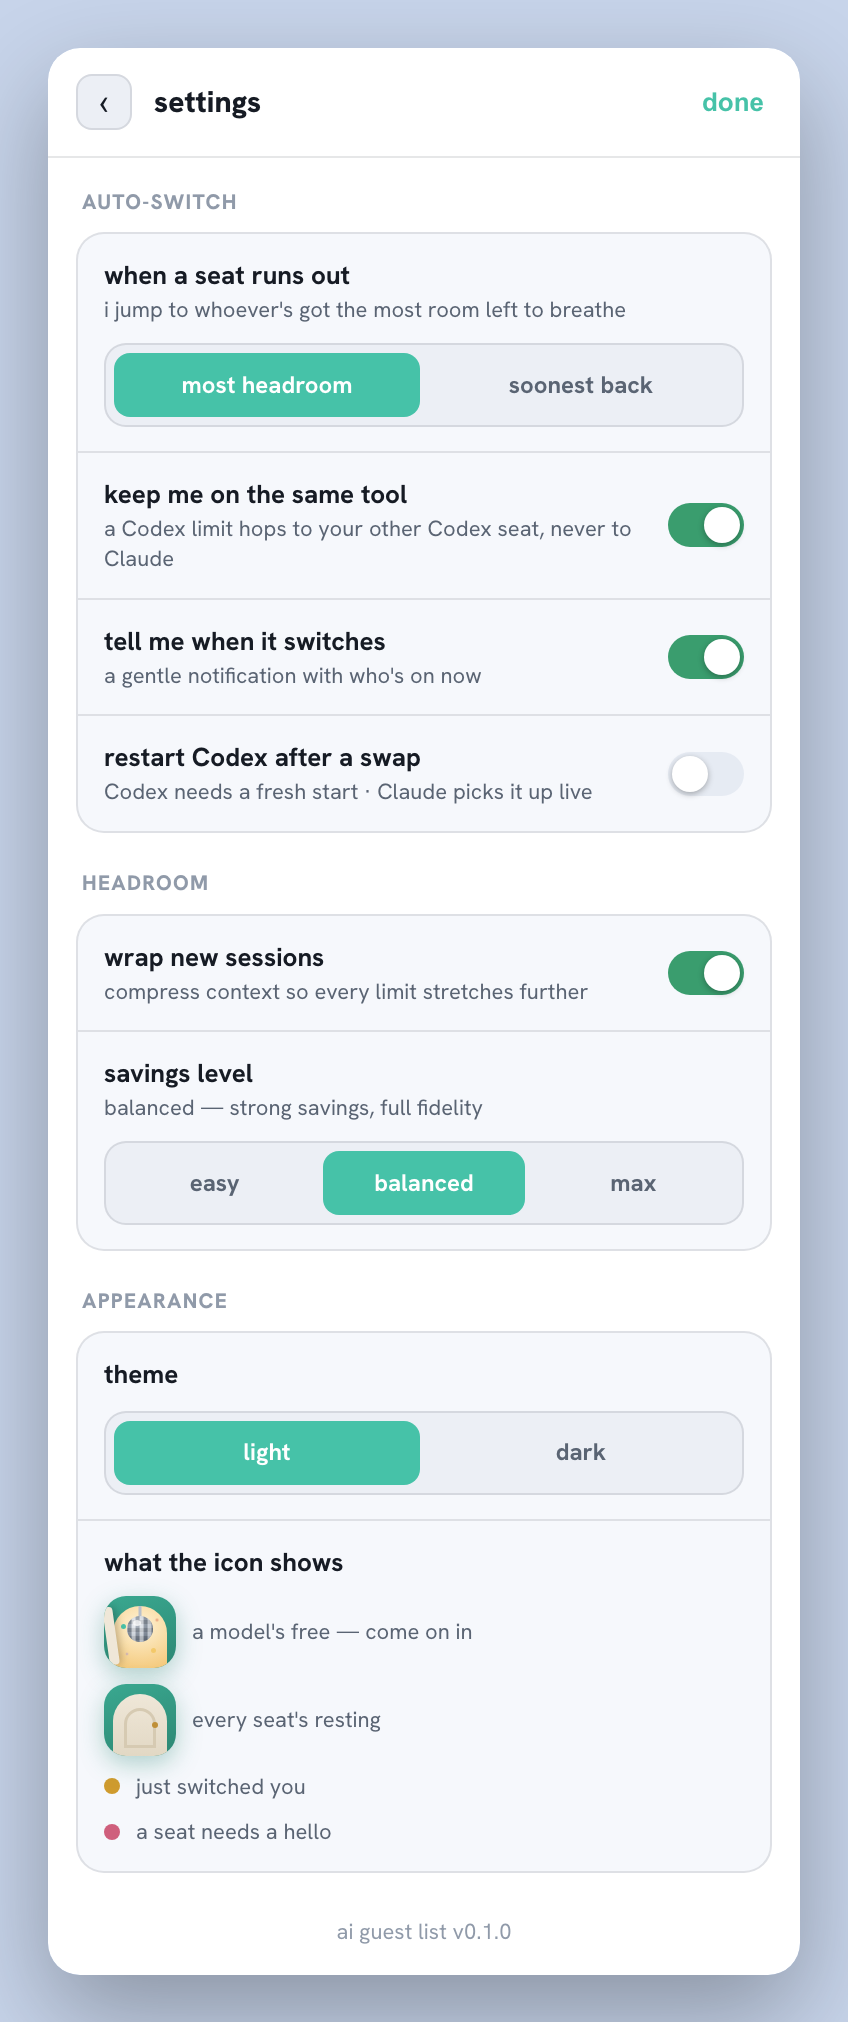
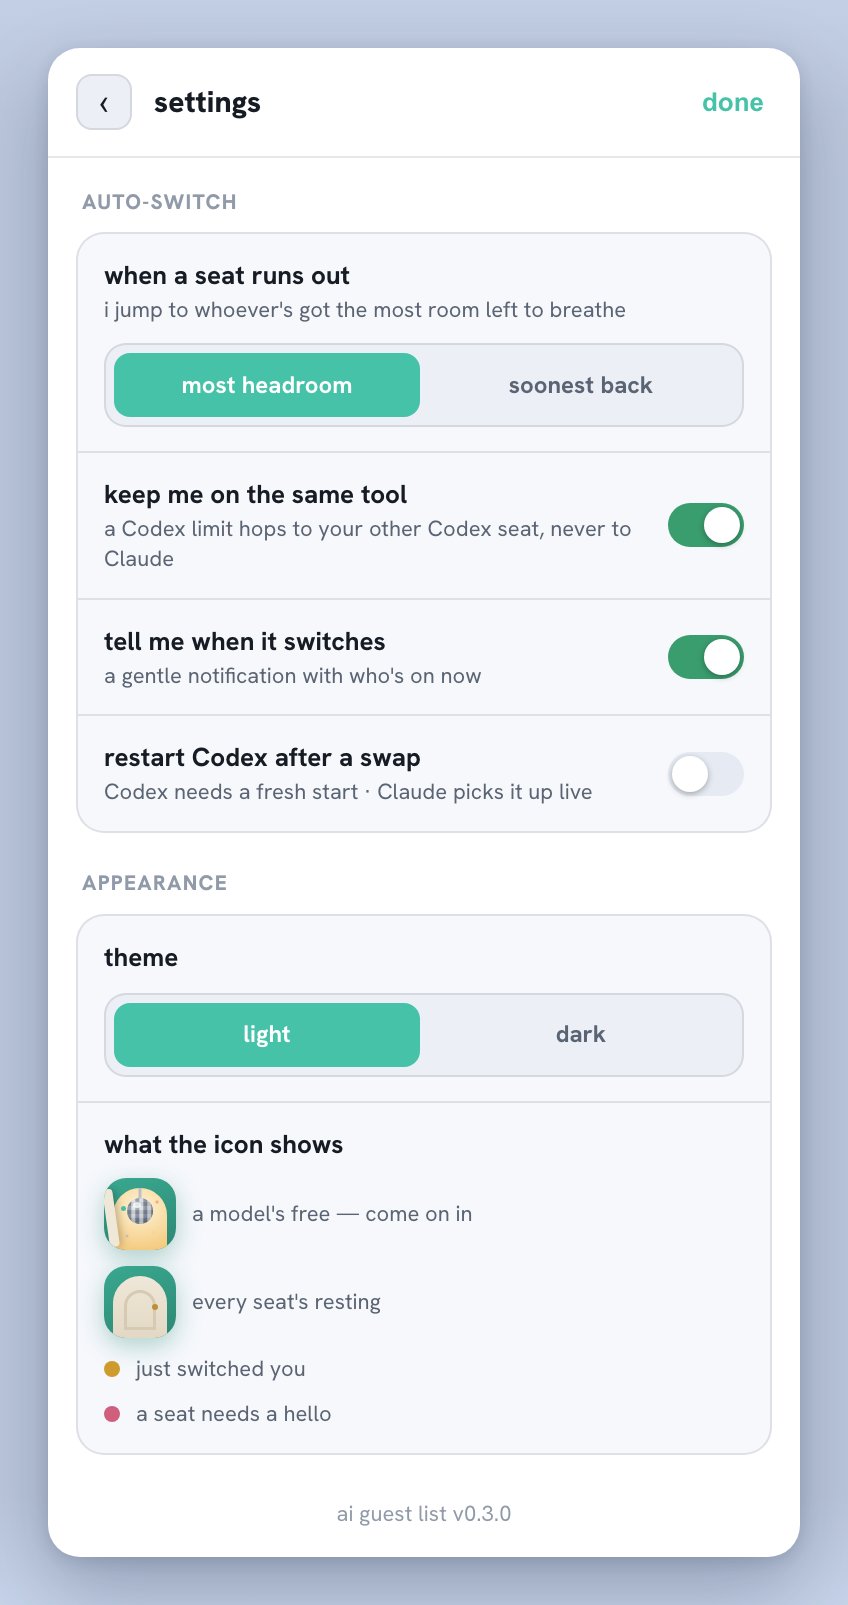
Regenerate the README screenshots from the real UI
Both shots predated the Headroom removal. The hero image still showed a
"Headroom · COMPRESSES CONTEXT" toggle switched on, captioned "wrapping
Codex & Claude · ~68% fewer tokens (measured)" — the exact claim this PR
exists to refute (the measurement was ~1-3% cache-adjusted). The settings
shot still had the whole HEADROOM section: "wrap new sessions" and an
easy/balanced/max savings picker. Its footer read v0.1.0.

Commit d202db1 rewrote the alt text to describe a toggle-free UI but left
the PNGs, so the alt text and the image it described contradicted each
other. The images now match that alt text; no README change needed.

Added scripts/screenshots.py rather than shooting them by hand: it seeds a
throwaway store with sample seats, runs it through the REAL engine
(bridge.snapshot_state — the same call the menubar makes) and shoots the
REAL web UI headless. Nothing mocks the markup, so a screenshot can no
longer advertise a feature the app doesn't have. Framing (424 CSS px wide,
24px inset, 376px card, soft blue backdrop, 2x) was measured off the
originals. Its one deviation from the app: the popover is a fixed 376x600
window that scrolls internally, so the card is allowed to grow to full
content height — otherwise a shot is just the first 600px.

Documented in RELEASING.md so it's part of the release checklist.

diff --git a/scripts/screenshots.py b/scripts/screenshots.py
@@ -1,0 +1,154 @@
+#!/usr/bin/env python3
+"""Regenerate the README screenshots from the REAL app UI.
+
+The popover and its settings view are rendered by `app/web` from one state payload. This seeds a
+throwaway store with sample seats, runs it through the REAL engine (`bridge.snapshot_state`, the same
+call the menubar makes), and shoots the actual web UI with headless Chrome. Nothing here mocks the
+markup, so a screenshot can never advertise a feature the app no longer has — which is exactly how
+the old ones came to show a "save credit" toggle for months after it was removed.
+
+    .venv/bin/python scripts/screenshots.py
+
+Writes docs/assets/screenshot.png (popover) and docs/assets/screenshot-settings.png (settings).
+Framing (424 CSS px wide, 24px inset, 376px card, soft blue backdrop, 2x) matches the originals.
+"""
+from __future__ import annotations
+
+import datetime as dt
+import json
+import re
+import shutil
+import subprocess
+import sys
+import tempfile
+from pathlib import Path
+
+ROOT = Path(__file__).resolve().parent.parent
+sys.path.insert(0, str(ROOT))
+WEB = ROOT / "app" / "web"
+OUT = ROOT / "docs" / "assets"
+CHROME = "/Applications/Google Chrome.app/Contents/MacOS/Google Chrome"
+PORT = 8917
+
+# The framing measured from the original screenshots: 424 CSS px wide, 24px inset, a 376px card
+# (the real popover width) on a soft blue backdrop, at 2x.
+#
+# In the app the popover is a fixed 376x600 window: `html,body,#root,.app{height:100%}` with
+# `.main-body`/`.set-body` scrolling INSIDE it. A screenshot of that would just be the first 600px
+# with the rest cut off, so we let the card grow to its full content height instead — which is what
+# the originals show. This is the only deviation from how the app renders; everything else is the
+# app's own CSS.
+SHOT_CSS = """
+  html { zoom: 2; }                    /* headless dpr is 1; zoom gives true 2x pixels */
+  html, body { margin: 0; padding: 0; }
+  html, body, #root, #root .app { height: auto !important; overflow: visible !important; }
+  #root .main-body, #root .set-body { flex: none !important; min-height: 0 !important;
+                                      overflow: visible !important; }
+  body { width: 424px; padding: 24px; box-sizing: border-box;
+         background: linear-gradient(180deg,#c3cfe5 0%,#bcc8dd 7%,#bcc8dd 93%,#c7d4ea 100%); }
+  #root { width: 376px; margin: 0; }   /* 376 = the real popover width */
+  #root .app { box-shadow: 0 18px 40px rgba(28,40,66,.28), 0 2px 8px rgba(28,40,66,.14); }
+  #overlay { display: none; }
+"""
+
+
+def sample_payload() -> dict:
+    """Sample seats, run through the real engine so the payload is exactly what the app renders."""
+    from acctsw import bridge
+    from acctsw.context import Context
+    from acctsw.util import iso, now
+
+    store = Path(tempfile.mkdtemp()) / "store"
+    ctx = Context.for_test(store)
+    ctx.ensure_dirs()
+    t = now()
+
+    def usage(p5, resets_in_min, pweek):
+        return {"ok": True, "error": None, "error_streak": 0, "fetched_at": iso(t),
+                "limit_reached": None,
+                "windows": {"5h": {"used_pct": p5,
+                                   "resets_at": iso(t + dt.timedelta(minutes=resets_in_min))},
+                            "weekly": {"used_pct": pweek,
+                                       "resets_at": iso(t + dt.timedelta(days=3))}}}
+
+    def seat(email, name, plan, u, limited_until=None):
+        return {"email": email, "name": name, "plan": plan, "added_at": iso(t),
+                "last_on_floor": None, "limit_source": None, "limited_until": limited_until,
+                "usage": u, "account_id": f"acct:{email}"}
+
+    s = ctx.load_state()
+    s.data["tools"]["codex"] = {"active": "[email redacted]", "accounts": {
+        "[email redacted]": seat("[email redacted]", "Work", "Business", usage(100, 101, 74),
+                                iso(t + dt.timedelta(minutes=101))),
+        "[email redacted]": seat("[email redacted]", "Personal", "Business",
+                                    usage(38, 180, 21)),
+    }}
+    s.data["tools"]["claude"] = {"active": "[email redacted]", "accounts": {
+        "[email redacted]": seat("[email redacted]", "Studio", "Max", usage(20, 240, 16)),
+        "[email redacted]": seat("[email redacted]", "Personal", "Pro", usage(5, 300, 4)),
+    }}
+    s.data["moved_note"] = "auto-moved Codex · Work → Personal — Work's resting"
+    s.data["last_switch_at"] = iso(t)
+    s.settings().update({"theme": "light", "auto_switch": True, "strategy": "most_headroom",
+                         "same_tool_only": True, "notify": True, "restart_app": False,
+                         "celebrations": True})
+    s.save()
+    return bridge.snapshot_state(ctx)
+
+
+def shoot(name: str, settings_view: bool, payload: dict) -> Path:
+    """Render one view and screenshot it, via a temporary page inside app/web (relative asset paths
+    and the page's own CSP mean it has to be served from there)."""
+    page = WEB / "_shot.html"
+    boot = WEB / "_shot.js"
+    call = ("window.AGL.result({state: P, settings_panel: true})" if settings_view
+            else "window.AGL.update(P)")
+    # Stamp the rendered height into the DOM so pass 1 can read it back: --screenshot only ever
+    # captures the viewport, so the window has to be sized to the content before the real shot.
+    boot.write_text(
+        f"const P = {json.dumps(payload)};\n{call};\n"
+        "document.title = 'H' + Math.ceil(document.documentElement.getBoundingClientRect().height);\n")
+    page.write_text(
+        '<!DOCTYPE html><html lang="en"><head><meta charset="utf-8">'
+        '<link rel="stylesheet" href="styles.css">'
+        f"<style>{SHOT_CSS}</style></head><body>"
+        '<div id="root"></div><script src="bundle.js"></script>'
+        '<script src="_shot.js"></script></body></html>')
+    srv = subprocess.Popen([sys.executable, "-m", "http.server", str(PORT)],
+                           cwd=WEB, stdout=subprocess.DEVNULL, stderr=subprocess.DEVNULL)
+    tmp = Path(tempfile.mkdtemp())
+    url = f"http://127.0.0.1:{PORT}/_shot.html"
+    common = [CHROME, "--headless", "--disable-gpu", "--hide-scrollbars",
+              "--default-background-color=00000000"]
+    try:
+        # pass 1: measure
+        dom = subprocess.run(common + ["--dump-dom", "--window-size=848,900", url],
+                             check=True, capture_output=True, text=True, timeout=90, cwd=tmp).stdout
+        m = re.search(r"<title>H(\d+)</title>", dom)
+        if not m:
+            raise RuntimeError("could not measure rendered height (did the UI render?)")
+        height = int(m.group(1))
+        # pass 2: shoot at exactly the content height
+        subprocess.run(common + [f"--screenshot={tmp / 'out.png'}",
+                                 f"--window-size=848,{height}", url],
+                       check=True, capture_output=True, timeout=90, cwd=tmp)
+        dest = OUT / name
+        shutil.copy(tmp / "out.png", dest)
+        return dest
+    finally:
+        srv.terminate()
+        page.unlink(missing_ok=True)
+        boot.unlink(missing_ok=True)
+        shutil.rmtree(tmp, ignore_errors=True)
+
+
+def main() -> int:
+    payload = sample_payload()
+    for name, settings_view in (("screenshot.png", False), ("screenshot-settings.png", True)):
+        out = shoot(name, settings_view, payload)
+        print(f"wrote {out.relative_to(ROOT)}")
+    return 0
+
+
+if __name__ == "__main__":
+    raise SystemExit(main())

diff --git a/docs/RELEASING.md b/docs/RELEASING.md
@@ -30,6 +30,11 @@ Releases are built and published by GitHub Actions when you push a tag — see
 
 ## Notes
 
+- **README screenshots.** Regenerate with `.venv/bin/python scripts/screenshots.py` whenever the
+  popover or settings view changes (and check the version in the settings footer). It seeds sample
+  seats, runs them through the real engine, and shoots the real web UI — so the images can't drift
+  from the app. They had: the shots advertised a "save credit" toggle for months after the feature
+  was removed, captioned with a savings number the code itself disproved.
 - **Unsigned.** No Apple Developer certificate is configured, so the `.app` is unsigned/un-notarized.
   See the **Unsigned-app note** in the [README](../README.md#install) for the user-facing Gatekeeper
   workarounds. Wire signing/notarization into the workflow once a Developer ID is available.